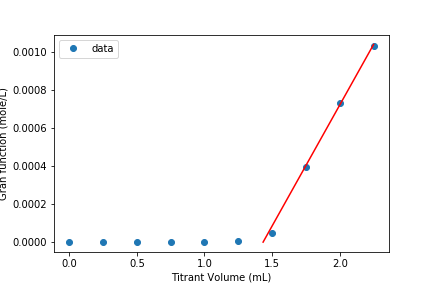
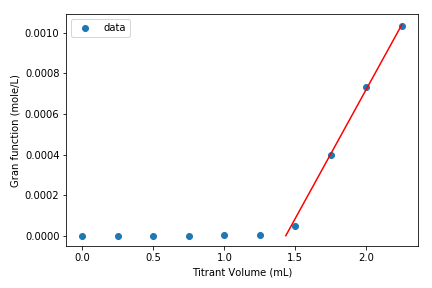
push

diff --git a/Lab3-ANC/group1_Acid_Rain_and_ANC_report.md b/Lab3-ANC/group1_Acid_Rain_and_ANC_report.md
@@ -10,7 +10,7 @@
 
 ## Results and Discussion
 
-## Data Analysis
+## Acid Rain Data Analysis
 1. Plot measured pH of the lake versus dimensionless hydraulic residence time (t/θ).
 
 ![pHgraph1](https://github.com/rosiekrasnoff/CEE4530/blob/master/Lab2-Acid%20Rain/lab2_pHgraph1.png?raw=true)
@@ -27,7 +27,6 @@ Figure 2: Plot of concentration calculated ANC over time from conservative, clos
 
 **Was the lake better modeled as in equilibrium with atmospheric CO2 or as not exchanging with atmospheric CO2?**  
 
-
 5. Analyze the data from the second experiment and graph the data appropriately. What did you learn from the second experiment?
 
 In the second experiment, we added about half as much NaHCO3 as we added in the first experiment. Therefore, it had a lower ANC and so the lake was destroyed and unlivable in a shorter amount of time. The ANC worked the same way, it was just less, so less acid could be added from the rain before the pH fell drastically.
@@ -40,7 +39,30 @@ Figure 3: Plot of concentration pH of lake as acid rain was added over time for 
 
 Figure 4: Plot of concentration calculated ANC over time from conservative, closed, and open calculations for second experiment with about half as much NaHCO3(0.317g).
 
-#### Acid Rain Questions
+## ANC Data Analysis
+1. Plot the titration curve of the t=0 sample with 0.05 N HCl (plot pH as a function of titrant volume). Label the equivalent volume of titrant. Label the 2 regions of the graph where pH changes slowly with the dominant reaction that is occurring. (Place labels with the chemical reactions on the graph in the pH regions where each reaction is occurring.) Note that in a third region of slow pH change no significant reactions are occurring (added hydrogen ions contribute directly to change in pH).
+
+![part1graph](https://github.com/rosiekrasnoff/CEE4530/blob/master/Lab3-ANC/titrationcurve.png?raw=true)
+
+In a region that occurs at a higher pH than we saw, the reaction $HCO_3^- <-> CO_3^2- + H^+$ would be occurring first. In the no reaction region, added hydrogen ions contribute directly to change in pH as noted in question prompt.
+
+2. Prepare a Gran plot using the data from the titration curve of the t=0 sample. Use linear regression on the linear region or simply draw a straight line through the linear region of the curve to identify the equivalent volume. Compare your calculation of Ve with that was calculated by ProCoDA.
+
+The Ve that we calculated using linear regression was 1.433 mL, which is essentially identical to that of ProCoDA at 1.433219 mL.
+
+
+![part2graph](https://github.com/rosiekrasnoff/CEE4530/blob/master/Lab3-ANC/Granplot.png?raw=true)
+
+Figure 6. Gran titration of a sample.
+
+3. Plot the measured ANC of the lake on the same graph as was used to plot the conservative, volatile, and nonvolatile ANC models (see questions 2 to 5 of the Acid Precipitation and Remediation of an Acid Lake lab). Did the measured ANC values agree with the conservative ANC model?
+
+Although not identical, the measured ANC agrees pretty well with the conservative ANC model.
+
+https://github.com/rosiekrasnoff/CEE4530/blob/master/Lab3-ANC/ANC_comp_data_plot.png?raw=true
+
+
+## Answers to Acid Rain Questions
 1. If the experiment was repeated with the stirrer were turned off, it would cause the NaHCO3 to simply sink to the bottom of the lake since its density = 2.2g/cm3 is higher than that of the lake. Some of the NaHCO3 will dissolve as it sinks, but even dissolved into water, it makes a more dense solution so that solution will also sink to the bottom. So, there will be less ANC at the top of the lake, where the acid is then added. Thus, the solution will acidify at the top faster than we saw with the stirrer turned on because the ANC will not be evenly distributed and the top of the lake will be lacking.
 
 2. Some complications of attempting to remediate a lake with CaCO3 include the density of CaCO3 is 2.71 g/cm³, which is higher than that of NaHCO3 at 2.2g/cm³, so it sinks quicker. This will exacerbate the issues discussed in question 1 above, where there will be a gradient of ANC because of the higher density. This problem will be made worse if there is no mixing. The solubility of CaCO3 is also much lower than that of NaHCO3, so even if one calculated how much CaCO3 to add to get the same ANC as we got from NaHCO3, the particles would likely not all dissolve, and therefore the actual ANC of the solution would not be as high as expected.
@@ -57,11 +79,14 @@ We had complications with ProCoDa not saving our data properly, which then cause
 ```python
 from aguaclara.core.units import unit_registry as u
 import aguaclara.research.environmental_processes_analysis as epa
+import aguaclara.core.utility as ut
 from scipy import optimize
 import numpy as np
 import matplotlib.pyplot as plt
 import pandas as pd
+from scipy import stats
 
+##ACID RAIN PORTION
 #Number 1
 #push the data file to your github and then get the url of the raw file.
 data_file_path="https://raw.githubusercontent.com/rosiekrasnoff/CEE4530/master/Lab2-Acid%20Rain/Lab_2_Acid_Rain.xls"
@@ -136,8 +161,7 @@ plt.legend(['ANC conservative', 'ANC closed', 'ANC open'])
 #plt.savefig('/Users/Rosie/github/CEE4530/Lab2-Acid Rain/lab2_ANC_comp.png')
 plt.show()
 
-#Number 5 (with our data)
-
+#Number 5
 data_file_path="https://raw.githubusercontent.com/rosiekrasnoff/CEE4530/master/Lab2-Acid%20Rain/Lab_2_Acid_rain_with_half_ANC.xls"
 # set the start index
 start=17
@@ -158,7 +182,6 @@ fig, ax = plt.subplots()
 ax.plot(hrt2,lakepH2,'r')
 plt.xlabel('hydraulic retention time')
 plt.ylabel('pH')
-
 #plt.savefig('/Users/Rosie/github/CEE4530/Lab2-Acid Rain/lab2_pHgraph2.png')
 plt.show()
 
@@ -188,19 +211,8 @@ plt.legend(['ANC conservative', 'ANC closed', 'ANC open'])
 #plt.savefig('/Users/Rosie/github/CEE4530/Lab2-Acid Rain/lab2_ANC_comp2.png')
 plt.show()
 
-```
-1. Plot the titration curve of the t=0 sample with 0.05 N HCl (plot pH as a function of titrant volume). Label the equivalent volume of titrant. Label the 2 regions of the graph where pH changes slowly with the dominant reaction that is occurring. (Place labels with the chemical reactions on the graph in the pH regions where each reaction is occurring.) Note that in a third region of slow pH change no significant reactions are occurring (added hydrogen ions contribute directly to change in pH).
-
-``` python
-from aguaclara.core.units import unit_registry as u
-import aguaclara.research.environmental_processes_analysis as epa
-import aguaclara.core.utility as ut
-from scipy import optimize
-import numpy as np
-import matplotlib.pyplot as plt
-import pandas as pd
-from scipy import stats
-
+##ANC LAB PORTION
+#Number 1
 Gran_data_0 = 'https://raw.githubusercontent.com/rosiekrasnoff/CEE4530/master/Lab3-ANC/lab%203%20ANC%2C%20t%3D0.xls'
 # The epa.Gran function imports data from your Gran data file as saved by ProCoDA.
 # The epa.Gran function assigns all of the outputs in one statement
@@ -208,21 +220,17 @@ V_titrant_0, pH_0, V_Sample_0, Normality_Titrant_0, V_equivalent_0, ANC_0 = epa.
 fig, ax = plt.subplots()
 ax.plot(V_titrant_0,pH_0,'r')
 ax.grid(True)
-plt.xlabel('volume of titrant')
+plt.xlabel('volume of titrant (mL)')
 plt.ylabel('pH')
-ax.annotate('equivalent volume', xy=(1.433219, 2.8), xytext=(1.4, 4), arrowprops=dict(facecolor='black', shrink=0.10),)
-ax.annotate('equation 1', xy=(0.75, 6.25), xytext=(1, 7), arrowprops=dict(facecolor='black', shrink=0.10),)
-ax.annotate('equation 2', xy=(2, 3.2), xytext=(2, 5), arrowprops=dict(facecolor='black', shrink=0.10),)
-
-#plt.savefig('/Users/Rosie/github/CEE4530/Lab3-ANC/lab3graph.png')
+#ax.annotate('equivalent volume', xy=(1.433219, 2.8), xytext=(0.8, 4), arrowprops=dict(facecolor='black', shrink=0.10),)
+plt.axvline(x=V_equivalent_0.magnitude,color='b')
+ax.annotate('$HCO_3^- + H^+ <-> H_2CO_3$', xy=(0.75, 6.25), xytext=(0.45, 7), arrowprops=dict(facecolor='black', shrink=0.10),)
+ax.annotate('no reaction', xy=(2, 3.2), xytext=(1.7, 5), arrowprops=dict(facecolor='black', shrink=0.10),)
+plt.legend(['titration curve', 'equiv titrant vol'])
+plt.savefig('/Users/Rosie/github/CEE4530/Lab3-ANC/titrationcurve.png')
 plt.show()
 
-```
-
-2. Prepare a Gran plot using the data from the titration curve of the t=0 sample. Use linear regression on the linear region or simply draw a straight line through the linear region of the curve to identify the equivalent volume. Compare your calculation of Ve with that was calculated by ProCoDA.
-
-``` python
-
+#Number 2
 #Define the gran function.
 def F1(V_sample_0,V_titrant_0,pH_0):
   return (V_sample_0 + V_titrant_0)/V_sample_0 * epa.invpH(pH_0)
@@ -251,18 +259,11 @@ plt.plot(x, y,'r')
 plt.xlabel('Titrant Volume (mL)')
 plt.ylabel('Gran function (mole/L)')
 plt.legend(['data'])
-
-#plt.savefig('Examples/images/Gran.png')
+plt.tight_layout()
+plt.savefig('/Users/Rosie/github/CEE4530/Lab3-ANC/Granplot.png')
 plt.show()
 
-```
-The Ve that we calculated using linear regression was 1.433 mL, which is essentially identical to that of ProCoDA at 1.433219 mL.
-
-Figure 6. Gran titration of a sample.
-
-3. Plot the measured ANC of the lake on the same graph as was used to plot the conservative, volatile, and nonvolatile ANC models (see questions 2 to 5 of the Acid Precipitation and Remediation of an Acid Lake lab). Did the measured ANC values agree with the conservative ANC model?
-
-``` python
+#Number 3
 # getting the ANC values at various times
 Gran_data_5 = 'https://raw.githubusercontent.com/rosiekrasnoff/CEE4530/master/Lab3-ANC/lab%203%20ANC%2C%20t%3D5m.xls'
 V_titrant_5, pH_5, V_Sample_5, Normality_Titrant_5, V_equivalent_5, ANC_5 = epa.Gran(Gran_data_5)
@@ -282,26 +283,17 @@ ANC_20
 10**-3.41
 
 # create a vector of ANC of the lake
-ANC_lake = [ANC_0.to(u.meq/u.L), ANC_5.to(u.meq/u.L), ANC_10.to(u.meq/u.L), ANC_15.to(u.meq/u.L), ANC_20.to(u.meq/u.L)]
-time_lake = [0,5,10,15,20]
-time_lake=time_lake*u.min
-
+time_lake=np.array([0,5,10,15,20])*u.min
+ANC_lake = np.array([(ANC_0.to(u.meq/u.L)).magnitude, (ANC_5.to(u.meq/u.L)).magnitude, (ANC_10.to(u.meq/u.L)).magnitude, (ANC_15.to(u.meq/u.L)).magnitude, (ANC_20.to(u.meq/u.L)).magnitude])*u.meq/u.L
 
 # plotting all the ANCs together
 ANC_graph=np.linspace(0,1.6,40)
 fig, ax = plt.subplots()
 ax.plot(time, ANC_expected.to(u.meq/u.L), 'r', time, ANC_closed.to(u.meq/u.L), 'g', time, ANC_effluent.to(u.meq/u.L), 'b')
-ax.plot(0,ANC_0.to(u.meq/u.L), 'o', 5, ANC_5.to(u.meq/u.L), 'o', 10, ANC_10.to(u.meq/u.L), 'o', 15, ANC_15.to(u.meq/u.L), 'o', 20, ANC_20.to(u.meq/u.L), 'o')
+ax.plot(time_lake, ANC_lake, 'o')
 plt.xlabel('time (mins)')
 plt.ylabel('ANC (meq/L)')
-plt.legend(['ANC conservative', 'ANC closed', 'ANC open'])
-#plt.savefig('/Users/Rosie/github/CEE4530/Lab2-Acid Rain/lab2_ANC_comp.png')
+plt.legend(['ANC conservative', 'ANC closed', 'ANC open', 'ANC data points'])
+plt.savefig('/Users/Rosie/github/CEE4530/Lab3-ANC/ANC_comp_data_plot.png')
 plt.show()
-
-
-plt.plot(time_lake,[ANC_0.to(u.meq/u.L), ANC_5.to(u.meq/u.L), ANC_10.to(u.meq/u.L), ANC_15.to(u.meq/u.L), ANC_20.to(u.meq/u.L)], 'r')
-ax.plot(time_lake,ANC_lake,'r')
-plt.show()
-
-
 ```
